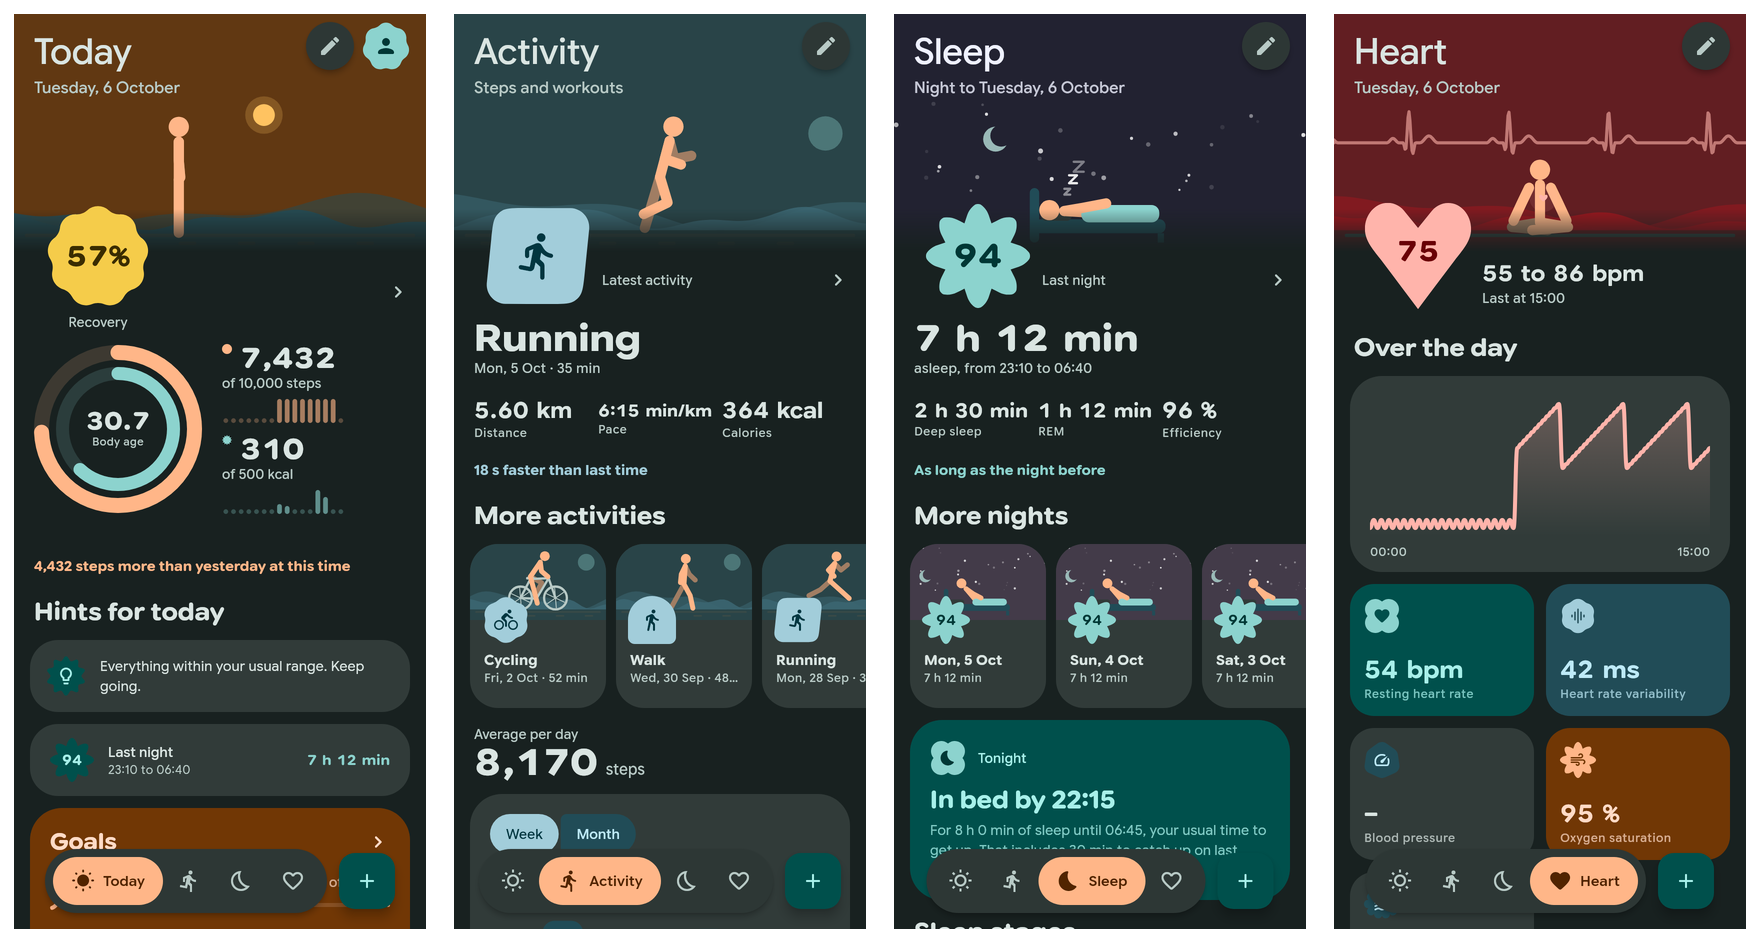
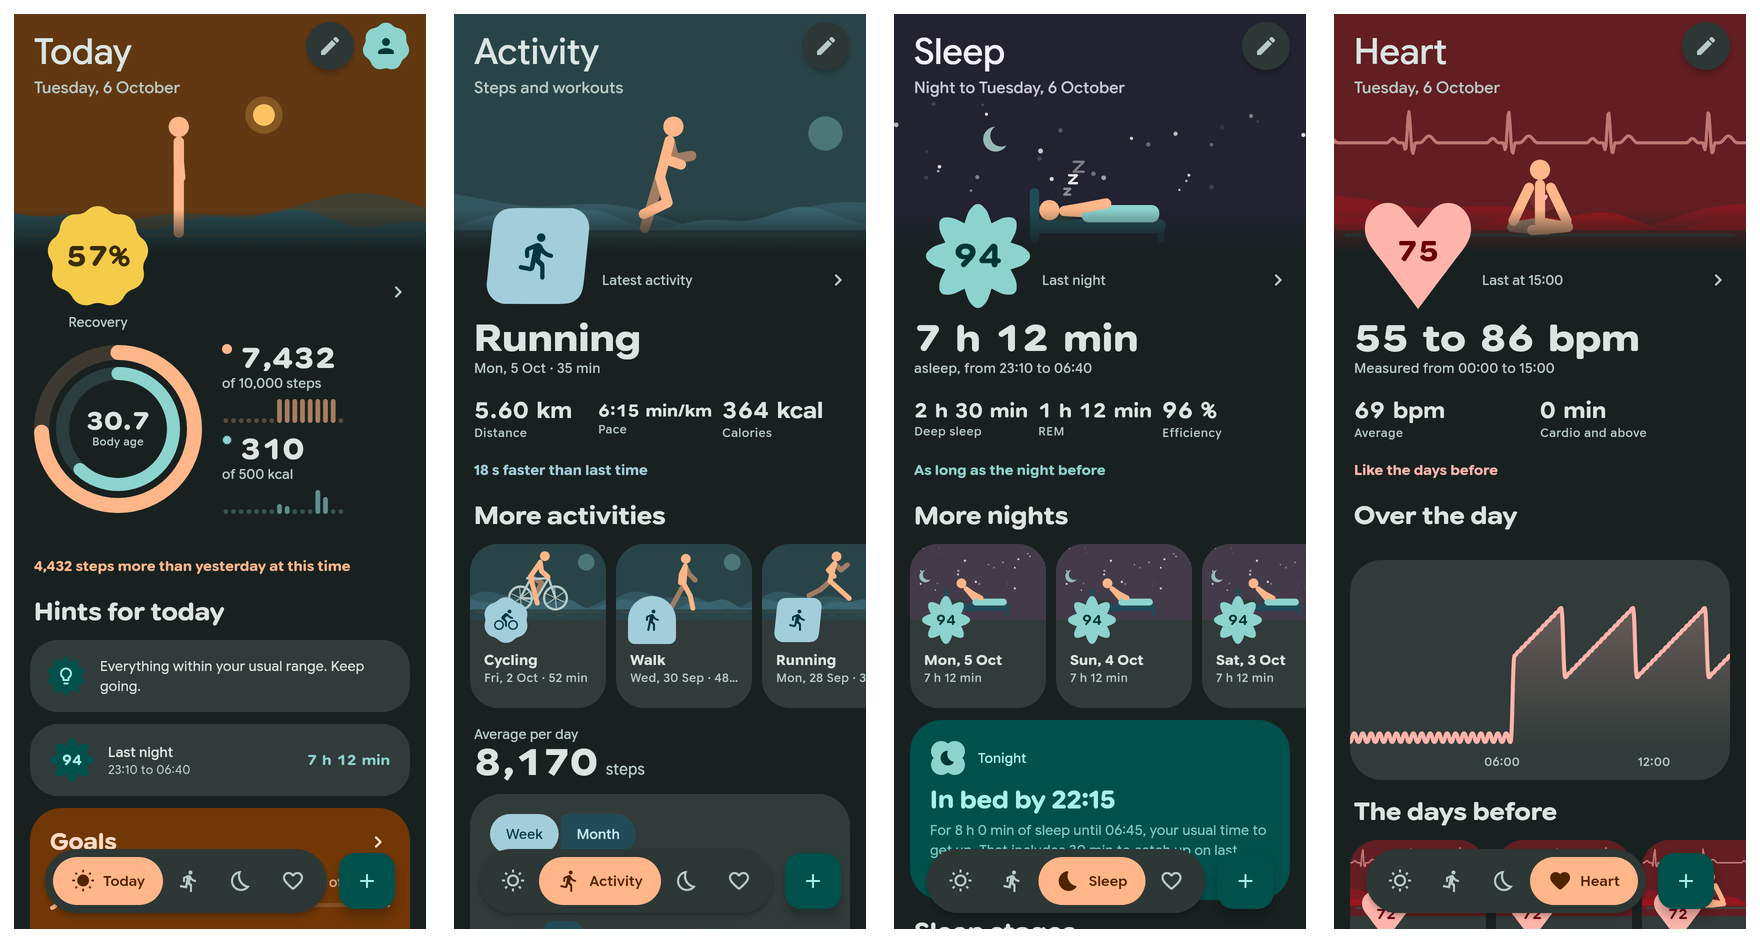
docs: show the Herz page as it is and the fine values in the README

Changed region(s): [[0.75, 0.2768, 1.0, 0.9841]]

diff --git a/README.md b/README.md
@@ -99,7 +99,7 @@ For the rest of the morning the **Good morning** tile on Today opens the cards a
 - **Vitals:** Resting heart rate, variability, blood pressure, oxygen saturation, respiratory rate and skin temperature, where your devices record them.
 - **Time in Zones:** Rest, light, cardio and peak, each as its share of the measured time.
 
-![Vitals and time in zones, a metric by week, the tiles on Today, and edit mode](readmestuff/heart.png)
+![The day's curve with its bar, vitals and time in zones, the page of the day, and its zones and parts](readmestuff/heart.png)
 
 ---
 
@@ -300,6 +300,8 @@ Both sets are stored side by side, so the switch takes effect at once. Fine valu
 #### What You Really Burn
 
 No estimate from a wrist is exact. The page of **total calories** therefore works the burn out backwards, from the one thing that is measured: over the last **28 days**, the calories you ate less what your weight did (a line through the weigh-ins, at 7,700 kcal per kilogram). Beside it stand the source's total and the fine total with their distance from it. It needs calories eaten on at least 24 of the 28 days and at least 6 weigh-ins, one in the first and one in the last week; until then the page says what is missing. It assumes the weight changes through fat and not through water, and it changes none of the other numbers.
+
+![Today with fine values, what a day's active calories are made of, the real burn from food and weight, and the switch in the profile](readmestuff/fine.png)
 
 Every metric has the tabs **Today**, **Yesterday**, **Week**, **Month**, **Year** and **All**. An average counts only days with data; a day without a measurement is not a zero.
 
